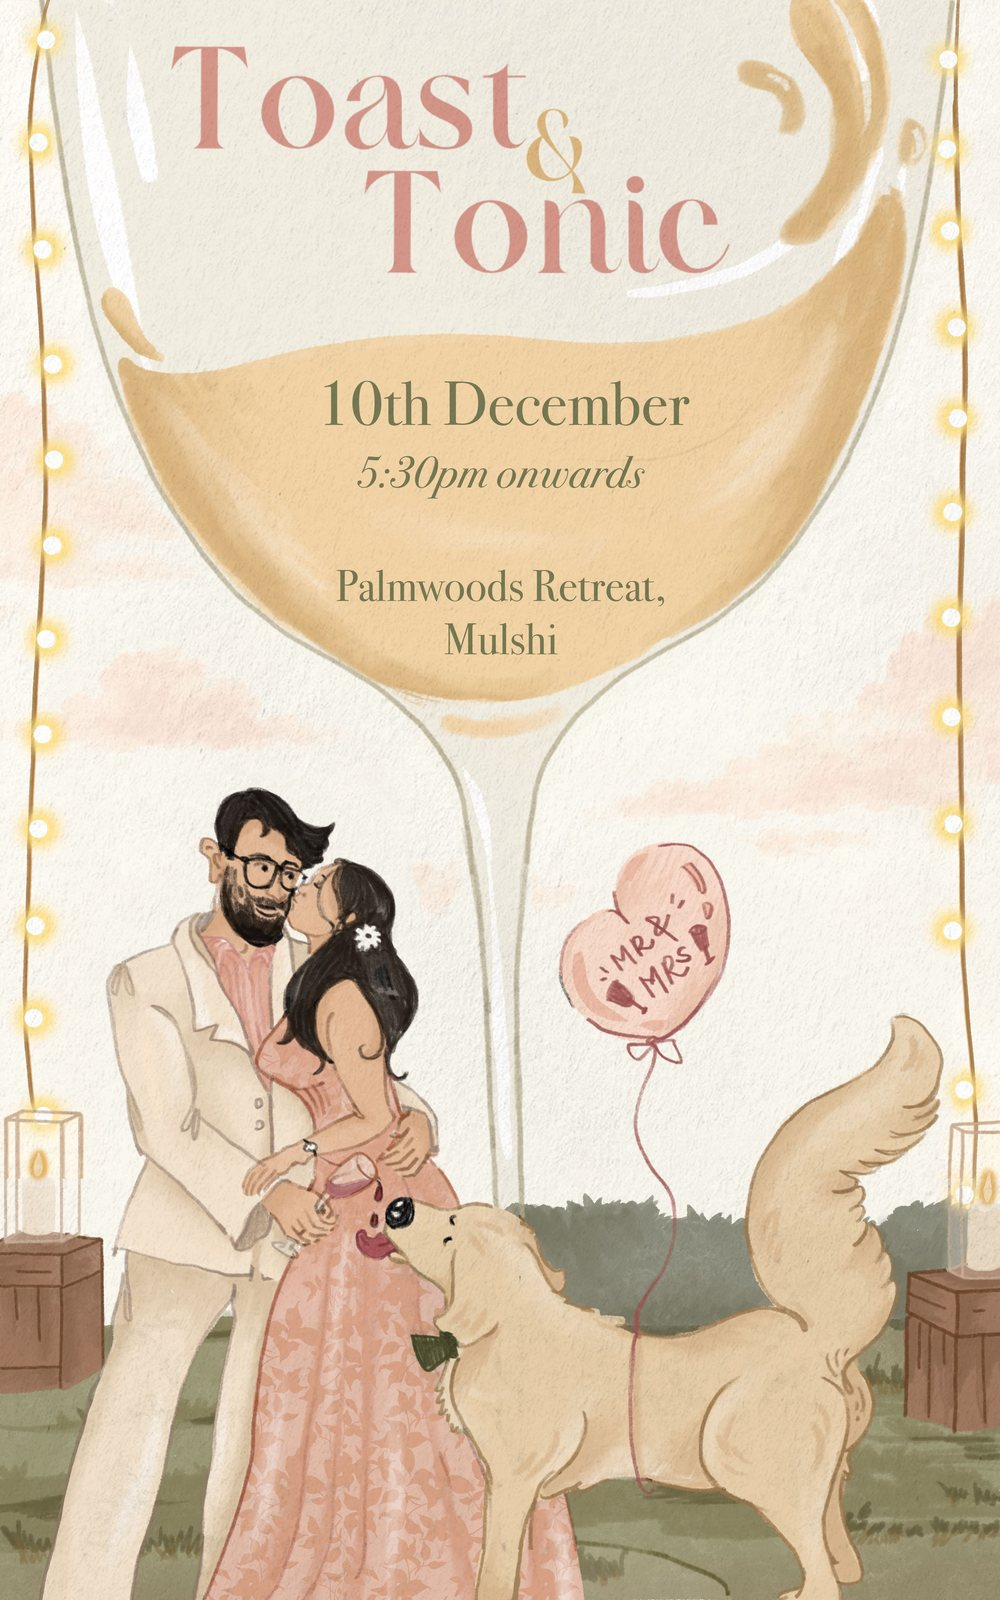
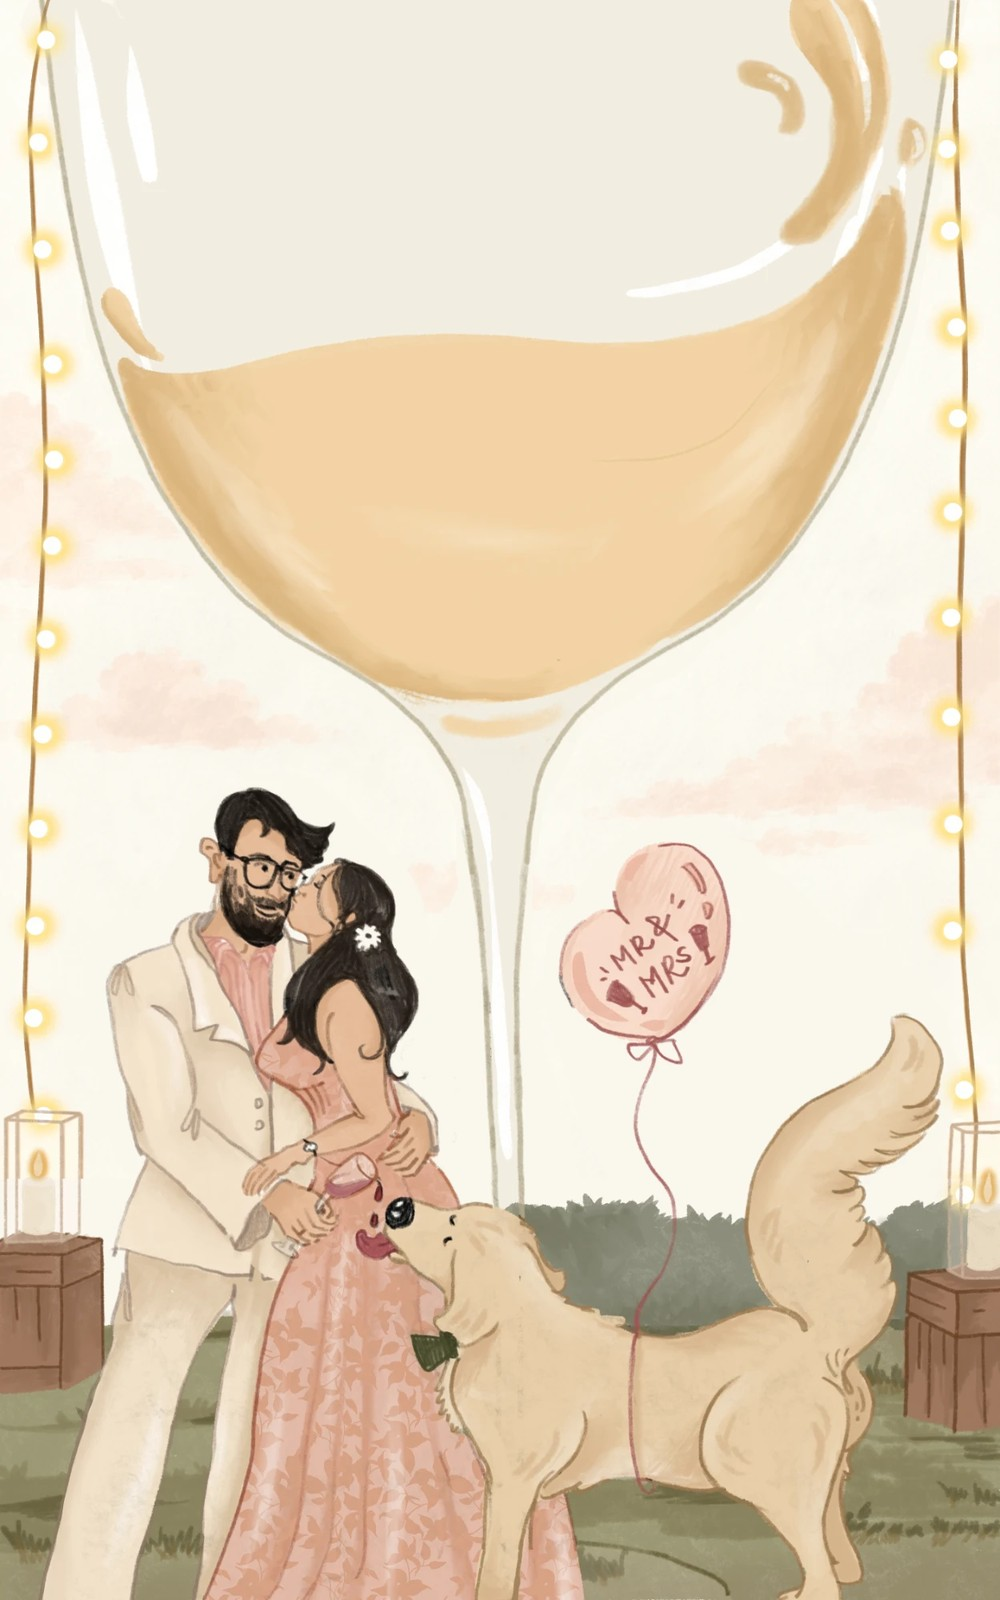
New 10:30am wedding invite for day guests; text-free cocktail art
Guests not at Haldi or Sangeet now see the Phera Pheri invite that says
10:30am onwards (phone card, desktop text and map times). The cocktail
page uses the new illustration without text; the glass lines are kept.

Claude-Session: https://claude.ai/code/session_01NB6zgwaBsBtudP5XzCG7zv

Changed region(s): [[0.186, 0.0312, 0.713, 0.1875], [0.31, 0.2188, 0.682, 0.3125], [0.341, 0.3438, 0.651, 0.4062]]

diff --git a/js/app.js b/js/app.js
@@ -341,7 +341,9 @@
   var sections = [];
 
   function myEvents() {
-    return EVENTS.filter(function (ev) { return guest.events.indexOf(ev.code) >= 0; });
+    var dayGuest = !/[HS]/.test(guest.events);
+    return EVENTS.filter(function (ev) { return guest.events.indexOf(ev.code) >= 0; })
+      .map(function (ev) { return dayGuest && ev.dayGuests ? Object.assign({}, ev, ev.dayGuests) : ev; });
   }
 
   function buildEvents() {
@@ -467,7 +469,7 @@
 
   // Desktop: each invite split into pieces (assets/desk) and spread across
   // the page. Phones: the whole invite on one screen.
-  function deskLayout(key, actions) {
+  function deskLayout(key, actions, ev) {
     function img(name, cls, alt) {
       return '<img class="d-p ' + cls + '" src="assets/desk/' + name + '.webp" alt="' + esc(alt || '') + '" loading="lazy">';
     }
@@ -488,9 +490,9 @@
       case 'wedding':
         return img('wedding-strip', 'wd-strip') +
           '<div class="d-col wd-col">' + img('wedding-title', 'wd-title', 'Phera Pheri') +
-          img('wedding-text', 'wd-text', '10th December, Thursday. Vidhi 7:30am, Muhurat 12:19pm. Golden Fields Resort, Mulshi.') + actions + '</div>';
+          img(ev.deskText || 'wedding-text', 'wd-text', ev.cardAlt.replace('Illustrated invite: Phera Pheri. ', '')) + actions + '</div>';
       case 'cocktail':
-        return '<img class="d-p c-art" src="assets/mobile/cocktail.webp" alt="Toast and Tonic. 10th December, 5:30pm onwards. Palmwoods Retreat, Mulshi." loading="lazy">' +
+        return '<img class="d-p c-art" src="assets/mobile/cocktail.webp" alt="' + esc(ev.cardAlt) + '" loading="lazy">' +
           '<div class="d-col c-col">' + actions + '</div>';
     }
     return '';
@@ -510,7 +512,7 @@
         '<img class="m-img" src="' + opts.img + '" alt="' + esc(opts.alt) + '" loading="' + (opts.eager ? 'eager' : 'lazy') + '" width="1000" height="1600">' +
         '<div class="m-actions">' + opts.actions + '</div>' +
       '</div>' +
-      '<div class="d-view d-view--' + opts.key + '">' + deskLayout(opts.key, opts.actions) + '</div>';
+      '<div class="d-view d-view--' + opts.key + '">' + deskLayout(opts.key, opts.actions, opts.ev) + '</div>';
     sec.appendChild(wrap);
     if (opts.next) sec.insertAdjacentHTML('beforeend', opts.next);
     return sec;
@@ -540,7 +542,7 @@
   function eventSection(ev, i, list) {
     return artPanel({
       key: ev.id, tab: ev.tab, cls: 'panel--event panel--' + ev.id, accent: ev.accent,
-      img: ev.card, alt: ev.cardAlt, particles: ev.particles,
+      ev: ev, img: ev.card, alt: ev.cardAlt, particles: ev.particles,
       actions: '<div class="art-links">' +
         '<button class="art-link" type="button" data-wardrobe="' + ev.id + '">' +
         '<span aria-hidden="true" class="art-link__line"></span>Wardrobe planner</button>' +

diff --git a/js/data.js b/js/data.js
@@ -89,6 +89,14 @@ window.EVENTS = [
     cardAlt: 'Illustrated invite: Phera Pheri. 10th December, Thursday. Vidhi 7:30am, Muhurat 12:19pm. Golden Fields Resort, Mulshi.',
     accent: '#c96f6a',
     particles: 'flower',
+    // Guests not at Haldi or Sangeet (the W and WC blocks) skip the Vidhi, so
+    // they get the "10:30am onwards" invite instead.
+    dayGuests: {
+      times: ['10:30am onwards', 'Muhurat : 12:19pm'],
+      card: 'assets/mobile/wedding-day.webp',
+      cardAlt: 'Illustrated invite: Phera Pheri. 10th December, Thursday. 10:30am onwards, Muhurat 12:19pm. Golden Fields Resort, Mulshi.',
+      deskText: 'wedding-text-day'
+    },
     wardrobe: {
       image: 'assets/wardrobe/wedding.jpg',
       name: 'Phera-Pheri',
@@ -109,7 +117,7 @@ window.EVENTS = [
     times: ['5:30pm onwards'],
     place: 'P',
     card: 'assets/mobile/cocktail.webp',
-    cardAlt: 'Illustrated invite: Toast & Tonic. 10th December, 5:30pm onwards, Palmwoods Retreat, Mulshi.',
+    cardAlt: 'Illustration for Toast & Tonic: Ishita and Sarvesh kiss under a giant wine glass while their golden retriever licks a spilled drink.',
     accent: '#c47f6e',
     particles: 'bubble',
     // No wardrobe page yet. Add one like the others when it's ready.

diff --git a/tools/cut_mobile.py b/tools/cut_mobile.py
@@ -10,7 +10,10 @@ os.makedirs(OUT, exist_ok=True)
 # The cover is cut down to just the illustration; the home page writes the
 # names and dates itself.
 CROP = {'cover': (150, 100, 870, 875)}
-NAMES = {'cover': True, 'family': False, 'haldi': True, 'sangeet': True, 'wedding': True, 'cocktail': True}
+# No faint motifs behind these, so pale lines (the cocktail glass) are kept.
+KEEP_PALE = {'cocktail'}
+NAMES = {'cover': True, 'family': False, 'haldi': True, 'sangeet': True, 'wedding': True,
+         'wedding-day': True, 'cocktail': True}
 for name, fill in NAMES.items():
     im = np.array(Image.open(f'{SRC}/{name}.jpg').convert('RGB')).astype(np.float32)
     h, w = im.shape[:2]
@@ -20,7 +23,8 @@ for name, fill in NAMES.items():
     dist = np.sqrt(((im - paper) ** 2).sum(-1))
     alpha = np.clip((dist - 16) / 26, 0, 1)
     # faint background motifs: light and pale -> drop
-    alpha[(hsv[..., 1] < 45) & (hsv[..., 2] > 185)] = 0
+    if name not in KEEP_PALE:
+        alpha[(hsv[..., 1] < 45) & (hsv[..., 2] > 185)] = 0
     if fill:
         solid = (alpha > 0.35).astype(np.uint8)
         solid = cv2.morphologyEx(solid, cv2.MORPH_CLOSE, np.ones((7, 7), np.uint8))

diff --git a/tools/cut_pieces.py b/tools/cut_pieces.py
@@ -6,6 +6,7 @@ import sys, json, cv2, numpy as np
 from PIL import Image
 S, OUT = sys.argv[1], sys.argv[2]
 SRC = {'haldi':'clean/haldi.png','sangeet':'clean/sangeet.png','wedding':'clean/wedding.jpg',
+       'wedding-day':'clean/wedding-day.jpg',
        'cocktail':'clean/cocktail.jpg','family':'clean/family.png','cover':'clean/cover.png'}
 # piece: (source, [rects as fractions], fill_holes, max output width)
 P = {
@@ -17,6 +18,7 @@ P = {
  'wedding-strip':('wedding',[(0,0,.57,.77),(0,.77,.76,1)], True, 1500),
  'wedding-title':('wedding',[(.59,.08,.97,.27)], False, 1000),
  'wedding-text': ('wedding',[(.575,.36,.97,.68)], False, 1000),
+ 'wedding-text-day': ('wedding-day',[(.575,.36,.97,.68)], False, 1000),
  'family-head':  ('family', [(.1,.07,.9,.25)], False, 1200),
  'family-ishita':('family', [(.08,.27,.92,.555)], False, 1200),
  'family-sarvesh':('family',[(.08,.62,.92,.92)], False, 1200),

diff --git a/README.md b/README.md
@@ -74,6 +74,9 @@ types both, and the browser rebuilds the same key and looks it up.
 - The small motifs floating behind each event (`assets/motifs`) are cut from
   the invites by `tools/cut_motifs.py`. Which set each event uses is
   `particles` in `js/data.js`.
+- The wedding has two invites. Guests at Haldi or Sangeet see `wedding`
+  (Vidhi 7:30am); everyone else (the `| WC` and `| W` blocks) sees
+  `wedding-day` (10:30am onwards). The swap is `dayGuests` in `js/data.js`.
 - Phones show the invites from `assets/mobile`: the same images as
   `assets/invite` with the paper made see-through, so every page sits on one
   cream background (`--paper` in `css/style.css`). After changing an invite,
